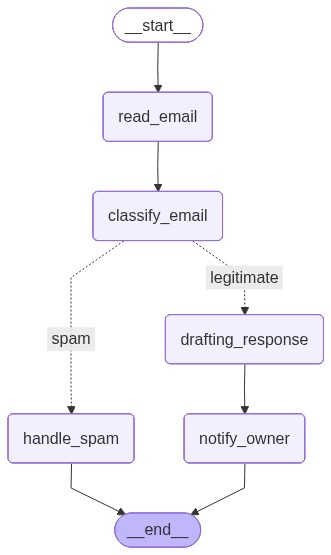
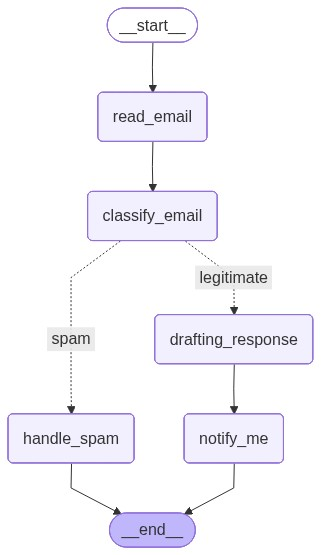
langgraph email spam/ham code

diff --git a/main.py b/main.py
@@ -16,7 +16,7 @@ class EmailState(TypedDict):
 
 def read_email(state: EmailState):
     email = state["email"]
-    print(f"Alfred is processing an email from {email['sender']} with subject: {email['subject']}")
+    print(f"Processing an email from {email['sender']} with subject: {email['subject']}")
     return {}
 
 
@@ -90,7 +90,7 @@ Draft a brief, professional response that I can review and personalize before se
     }
 
 
-def notify_owner(state: EmailState):
+def notify_me(state: EmailState):
     email = state["email"]
 
     print("\n" + "=" * 50)
@@ -120,7 +120,7 @@ email_graph.add_node("read_email", read_email)  # the read_email node executes t
 email_graph.add_node("classify_email", classify_email)  # the classify_email node will execute the classify_email function
 email_graph.add_node("handle_spam", handle_spam)  #same logic
 email_graph.add_node("drafting_response", drafting_response)  #same logic
-email_graph.add_node("notify_owner", notify_owner)  # same logic
+email_graph.add_node("notify_me", notify_me)  # same logic
 
 # Add edges
 email_graph.add_edge(START, "read_email")  # After starting we go to the "read_email" node
@@ -139,8 +139,8 @@ email_graph.add_conditional_edges(
 
 # Add final edges
 email_graph.add_edge("handle_spam", END)  # after handling spam we always end
-email_graph.add_edge("drafting_response", "notify_owner")
-email_graph.add_edge("notify_owner", END)
+email_graph.add_edge("drafting_response", "notify_me")
+email_graph.add_edge("notify_me", END)
 
 # Compile the graph
 compiled_graph = email_graph.compile()
@@ -161,25 +161,21 @@ def save_graph_image(graph, path="graph.png"):
 save_graph_image(compiled_graph)
 emails = [
     {
-        "label": "LEGITIMATE",
         "sender": "Dr. Sarah Collins",
         "subject": "Your annual check-up results",
-        "body": "Dear Sir, your blood test results from last Tuesday are in. Everything looks normal. Please call the clinic at your earliest convenience to schedule a follow-up. Best regards, Dr. Collins."
+        "body": "Dear Mr. Doe, your blood test results from last Tuesday are in. Everything looks normal. Please call the clinic at your earliest convenience to schedule a follow-up. Best regards, Dr. Collins."
     },
     {
-        "label": "LEGITIMATE",
         "sender": "Alfred Pennyworth",
         "subject": "Tonight's dinner reservation",
         "body": "Sir, I have confirmed your reservation at Le Bernardin for 8 PM tonight. Your guest, Mr. Fox, has been notified. The car will be ready at 7:30 PM."
     },
     {
-        "label": "SPAM",
         "sender": "Nigerian Prince <[email redacted]>",
         "subject": "URGENT: $45,000,000 transfer — your help needed",
         "body": "Dear Friend, I am a prince from Nigeria with $45 million USD frozen in a bank account. I need your help to transfer the funds. You will receive 30% commission. Please send your bank details immediately. God bless."
     },
     {
-        "label": "SPAM",
         "sender": "SlimFast Pills <[email redacted]>",
         "subject": "Lose 30 pounds in 7 days — GUARANTEED!!!",
         "body": "AMAZING NEW PILL dissolves belly fat overnight!! Doctors HATE this trick. Click here NOW for a FREE trial. Limited stock. ACT FAST!!! www.bestpills4u.biz/order"
@@ -187,7 +183,7 @@ emails = [
 ]
 
 for email in emails:
-    print(f"\nProcessing {email['label']} email from {email['sender']}...")
+    print(f"\nProcessing email from {email['sender']}...")
     compiled_graph.invoke({
         "email": email,
         "is_spam": None,